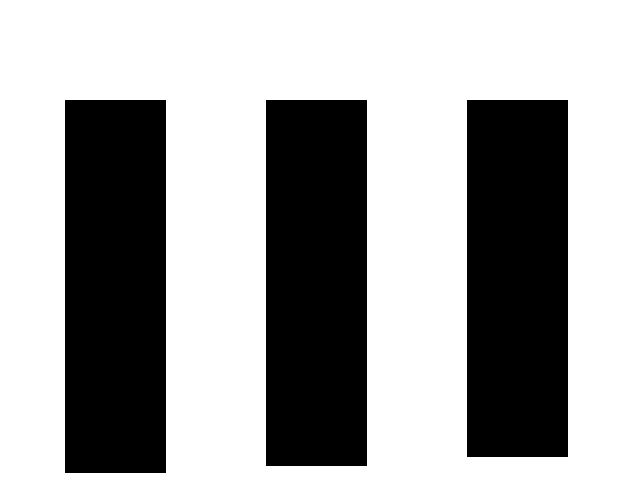
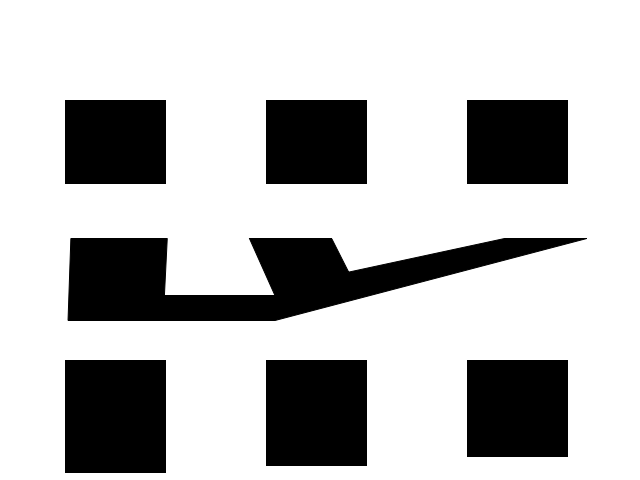
Add more shapes image for test ROI ORB

Changed region(s): [[0.0938, 0.375, 0.9062, 0.75]]

diff --git a/src/examples/test_ROI_ORB.cpp b/src/examples/test_ROI_ORB.cpp
@@ -66,13 +66,15 @@ int main(int argc, char** argv)
 
     roi_y = (102) - (roi_width / 2);
 
-    for(unsigned int i = 0; i < 2; i++)
+    for(unsigned int i = 0; i < 3; i++)
     {
         if(i == 0)
-            roi_y = (102) - (roi_width / 2);
+            roi_y = 102 - (roi_width / 2);
+        else if(i == 1)
+            roi_y = 250 - (roi_width / 2);
         else
-            roi_y = (476) - (roi_width / 2);
-        for(roi_x = 0; roi_x < img_width; roi_x++)
+            roi_y = 476 - (roi_width / 2);
+        for(roi_x = 0; roi_x < img_width; roi_x += 5)
         {
 
             cv::Rect roi(roi_x, roi_y, roi_width, roi_heigth);
